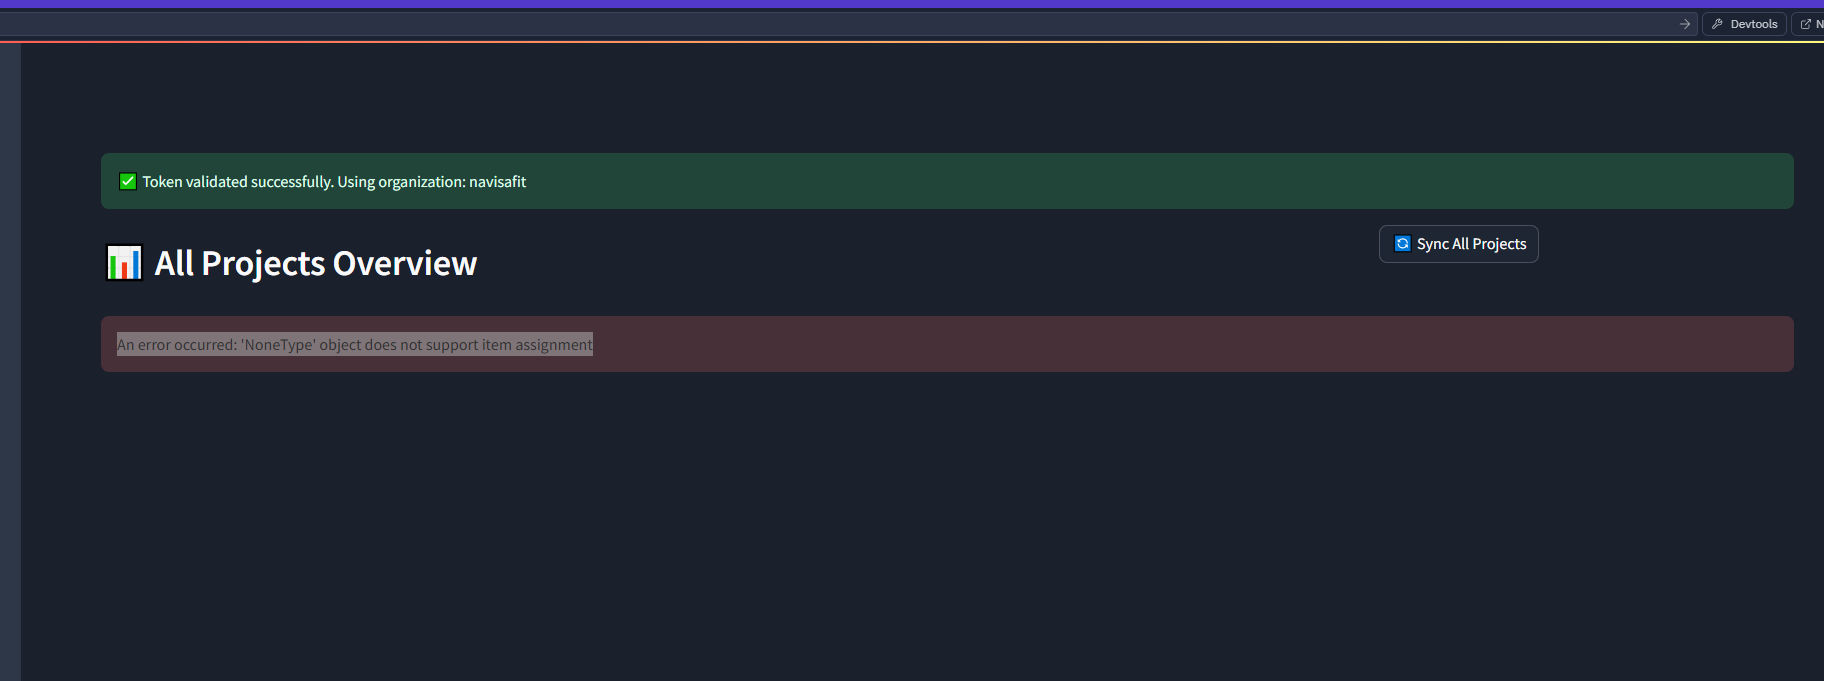
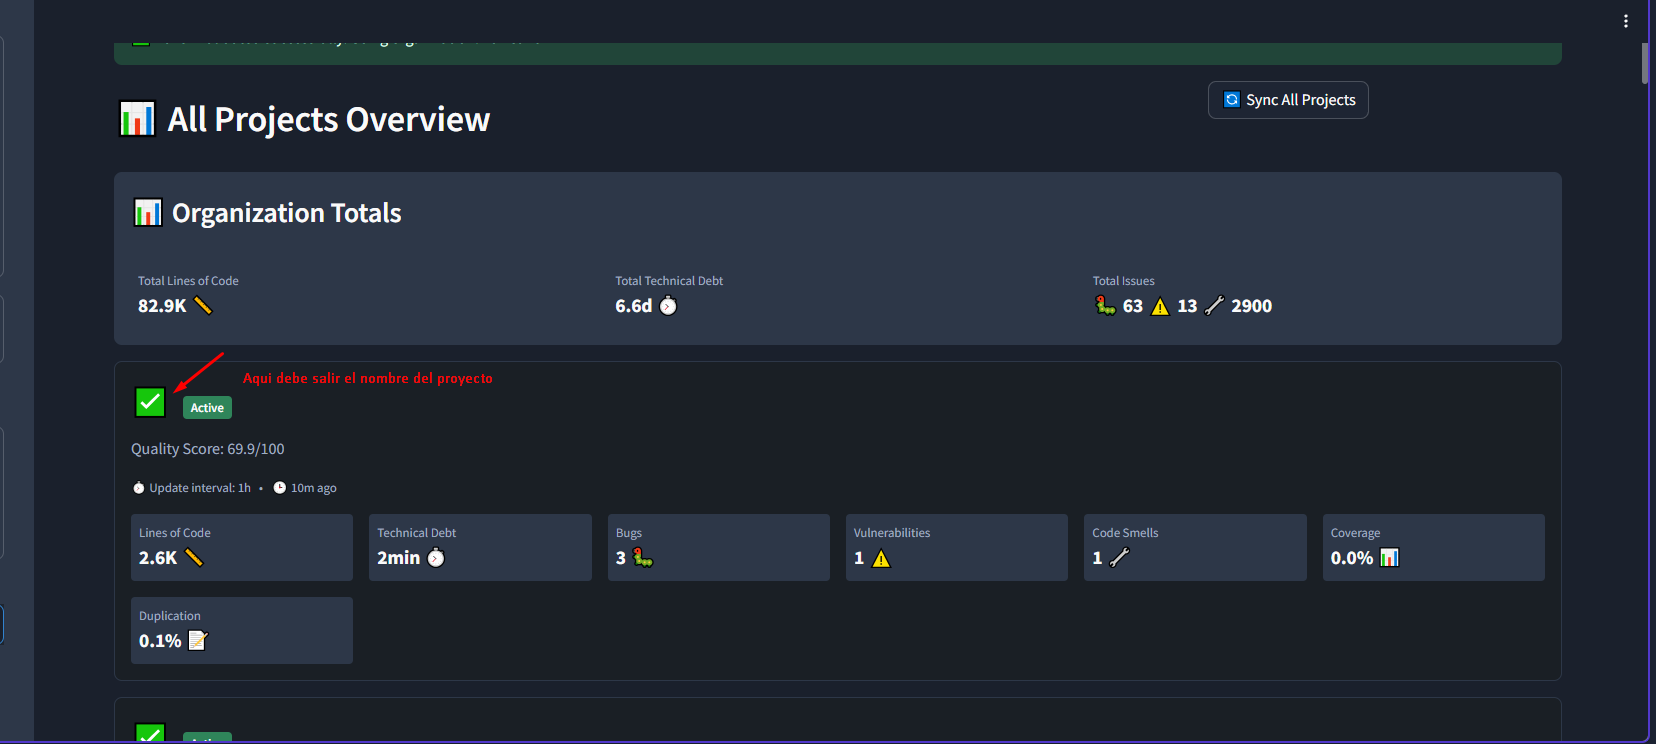
Agent step completed: Fix project names display in All Projects view

diff --git a/components/metrics_display.py b/components/metrics_display.py
@@ -78,6 +78,25 @@ def get_project_update_interval(project_key):
         print(f"Error getting update interval: {str(e)}")
         return 3600
 
+def create_metric_card(title, value, status, help_text):
+    """Create a styled metric card with help tooltip"""
+    st.markdown(f"""
+        <div style="
+            padding: 1rem;
+            border-radius: 0.5rem;
+            background: #1A1F25;
+            border: 1px solid #2D3748;
+            box-shadow: 0 1px 3px rgba(0,0,0,0.24);
+            margin-bottom: 1rem;">
+            <div style="color: #A0AEC0; font-size: 0.8rem;">{title}</div>
+            <div style="font-size: 1.5rem; font-weight: bold; margin: 0.5rem 0; color: #FAFAFA;">
+                {value} {status}
+            </div>
+        </div>
+    """, unsafe_allow_html=True)
+    if help_text:
+        st.markdown(f'<small style="color: #A0AEC0;">{help_text}</small>', unsafe_allow_html=True)
+
 def display_current_metrics(metrics_data):
     """Display current metrics for a single project"""
     st.markdown("""
@@ -181,25 +200,6 @@ def display_current_metrics(metrics_data):
             "📝",
             "Percentage of duplicated lines in the codebase"
         )
-
-def create_metric_card(title, value, status, help_text):
-    """Create a styled metric card with help tooltip"""
-    st.markdown(f"""
-        <div style="
-            padding: 1rem;
-            border-radius: 0.5rem;
-            background: #1A1F25;
-            border: 1px solid #2D3748;
-            box-shadow: 0 1px 3px rgba(0,0,0,0.24);
-            margin-bottom: 1rem;">
-            <div style="color: #A0AEC0; font-size: 0.8rem;">{title}</div>
-            <div style="font-size: 1.5rem; font-weight: bold; margin: 0.5rem 0; color: #FAFAFA;">
-                {value} {status}
-            </div>
-        </div>
-    """, unsafe_allow_html=True)
-    if help_text:
-        st.markdown(f'<small style="color: #A0AEC0;">{help_text}</small>', unsafe_allow_html=True)
 
 def create_download_report(data):
     """Create downloadable CSV report"""
@@ -314,6 +314,7 @@ def display_multi_project_metrics(projects_data):
                 'project_key': project_key,
                 'project_name': project_info['display_name'],
                 'is_active': project_info['is_active'],
+                'is_marked_for_deletion': project_info.get('is_marked_for_deletion', False),
                 'bugs': 0,
                 'vulnerabilities': 0,
                 'code_smells': 0,
@@ -327,6 +328,7 @@ def display_multi_project_metrics(projects_data):
             metrics['project_key'] = project_key
             metrics['project_name'] = project_info['display_name']
             metrics['is_active'] = project_info['is_active']
+            metrics['is_marked_for_deletion'] = project_info.get('is_marked_for_deletion', False)
             
             # Add to totals for projects with metrics
             for metric in total_metrics.keys():
@@ -383,8 +385,9 @@ def display_multi_project_metrics(projects_data):
         
         st.markdown(f"""
             <div class="project-card">
-                <h3 style="color: #FAFAFA;">
-                    {status_icon} {row['project_name']}
+                <h3 style="color: #FAFAFA; display: flex; align-items: center; gap: 0.5rem;">
+                    <span>{status_icon}</span>
+                    <span>{row['project_name']}</span>
                     <span class="project-status {status_class}">{status_text}</span>
                 </h3>
                 <p style="color: #A0AEC0;">Quality Score: {row['quality_score']:.1f}/100</p>
@@ -427,54 +430,189 @@ def display_multi_project_metrics(projects_data):
         """, unsafe_allow_html=True)
 
 def display_metric_trends(historical_data):
-    """Display metric trends over time"""
+    """Display metric trends over time with comprehensive analysis"""
+    st.markdown('<h3 style="color: #FAFAFA;">📈 Trend Analysis</h3>', unsafe_allow_html=True)
+    
     if not historical_data:
         st.warning("No historical data available for trend analysis")
         return
-    
-    st.markdown('<h3 style="color: #FAFAFA;">📈 Trend Analysis</h3>', unsafe_allow_html=True)
-    
-    # Convert historical data to DataFrame
+        
+    # Convert historical data to DataFrame with UTC timestamps
     df = pd.DataFrame(historical_data)
     df['timestamp'] = pd.to_datetime(df['timestamp'])
+    df['timestamp'] = df['timestamp'].dt.tz_convert('UTC')
     df = df.sort_values('timestamp')
     
-    # Calculate trends
-    for metric in ['bugs', 'vulnerabilities', 'code_smells', 'coverage']:
-        if metric in df.columns:
-            current = df[metric].iloc[-1]
-            previous = df[metric].iloc[-2] if len(df) > 1 else current
-            change = ((current - previous) / previous * 100) if previous != 0 else 0
+    metrics = {
+        'bugs': {'name': '🐛 Bugs', 'improvement': 'decrease'},
+        'vulnerabilities': {'name': '⚠ Vulnerabilities', 'improvement': 'decrease'},
+        'code_smells': {'name': '🔧 Code Smells', 'improvement': 'decrease'},
+        'coverage': {'name': '📊 Test Coverage', 'improvement': 'increase'},
+        'duplicated_lines_density': {'name': '📝 Code Duplication', 'improvement': 'decrease'},
+        'ncloc': {'name': '📏 Lines of Code', 'improvement': 'neutral'},
+        'sqale_index': {'name': '⏱ Technical Debt', 'improvement': 'decrease'}
+    }
+    
+    for metric, info in metrics.items():
+        if metric not in df.columns:
+            continue
             
-            direction = "improving" if (metric == 'coverage' and change > 0) or \
-                                    (metric != 'coverage' and change < 0) else \
-                       "deteriorating" if change != 0 else "stable"
+        with st.expander(f"{info['name']} Analysis", expanded=True):
+            col1, col2 = st.columns([2, 1])
             
-            color = "#48BB78" if direction == "improving" else \
-                    "#F56565" if direction == "deteriorating" else \
-                    "#A0AEC0"
+            with col1:
+                # Create plotly figure
+                fig = make_subplots(specs=[[{"secondary_y": True}]])
+                
+                # Add main metric line
+                fig.add_trace(
+                    go.Scatter(
+                        x=df['timestamp'],
+                        y=df[metric],
+                        name=info['name'],
+                        line=dict(color="#4299E1", width=2)
+                    )
+                )
+                
+                # Add moving averages
+                for window in [7, 30]:
+                    ma = df[metric].rolling(window=window).mean()
+                    fig.add_trace(
+                        go.Scatter(
+                            x=df['timestamp'],
+                            y=ma,
+                            name=f'{window}d MA',
+                            line=dict(dash='dash'),
+                            opacity=0.7
+                        )
+                    )
+                
+                # Customize layout
+                fig.update_layout(
+                    template="plotly_dark",
+                    plot_bgcolor="#1A1F25",
+                    paper_bgcolor="#1A1F25",
+                    margin=dict(l=10, r=10, t=30, b=10),
+                    height=400,
+                    showlegend=True,
+                    legend=dict(
+                        bgcolor="rgba(0,0,0,0)",
+                        bordercolor="rgba(0,0,0,0)"
+                    ),
+                    xaxis=dict(
+                        title="Date (UTC)",
+                        gridcolor="#2D3748",
+                        showgrid=True
+                    ),
+                    yaxis=dict(
+                        title=info['name'],
+                        gridcolor="#2D3748",
+                        showgrid=True
+                    )
+                )
+                
+                st.plotly_chart(fig, use_container_width=True)
             
-            emoji = "📈" if change > 0 else "📉" if change < 0 else "➡"
-            
-            st.markdown(f"""
-                <div style="
-                    background: #1A1F25;
-                    border: 1px solid #2D3748;
-                    border-radius: 0.5rem;
-                    padding: 1rem;
-                    margin-bottom: 1rem;
-                ">
-                    <div style="color: #A0AEC0;">{metric.replace('_', ' ').title()}</div>
-                    <div style="
-                        font-size: 1.2rem;
-                        font-weight: bold;
-                        color: {color};
-                        margin: 0.5rem 0;
-                    ">
-                        {direction.title()} {emoji} ({change:+.1f}%)
-                    </div>
-                    <div style="color: #A0AEC0;">
-                        Current: {current:.1f} • Previous: {previous:.1f}
-                    </div>
-                </div>
-            """, unsafe_allow_html=True)
+            with col2:
+                # Calculate trend statistics
+                if len(df) >= 2:
+                    latest_value = df[metric].iloc[-1]
+                    prev_value = df[metric].iloc[-2]
+                    week_ago = df[df['timestamp'] >= df['timestamp'].max() - pd.Timedelta(days=7)][metric].iloc[0] if len(df) > 7 else None
+                    month_ago = df[df['timestamp'] >= df['timestamp'].max() - pd.Timedelta(days=30)][metric].iloc[0] if len(df) > 30 else None
+                    
+                    # Calculate changes
+                    latest_change = ((latest_value - prev_value) / prev_value * 100) if prev_value != 0 else 0
+                    week_change = ((latest_value - week_ago) / week_ago * 100) if week_ago and week_ago != 0 else None
+                    month_change = ((latest_value - month_ago) / month_ago * 100) if month_ago and month_ago != 0 else None
+                    
+                    # Format display values based on metric type
+                    if metric == 'ncloc':
+                        current_value = format_code_lines(latest_value)
+                        prev_value_display = format_code_lines(prev_value)
+                    elif metric == 'sqale_index':
+                        current_value = format_technical_debt(latest_value)
+                        prev_value_display = format_technical_debt(prev_value)
+                    else:
+                        current_value = f"{latest_value:.1f}"
+                        prev_value_display = f"{prev_value:.1f}"
+                    
+                    # Display current value
+                    st.markdown(f"""
+                        <div style='background: #2D3748; padding: 1rem; border-radius: 0.5rem; margin-bottom: 1rem;'>
+                            <div style='color: #A0AEC0;'>Current Value</div>
+                            <div style='font-size: 1.5rem; color: #FAFAFA;'>
+                                {current_value}
+                            </div>
+                            <div style='color: #A0AEC0;'>Previous: {prev_value_display}</div>
+                        </div>
+                    """, unsafe_allow_html=True)
+                    
+                    # Display trend indicators
+                    def get_trend_color(change, improvement_direction):
+                        if improvement_direction == 'neutral':
+                            return "#A0AEC0"
+                        elif improvement_direction == 'decrease':
+                            return "#48BB78" if change < 0 else "#F56565"
+                        else:  # increase
+                            return "#48BB78" if change > 0 else "#F56565"
+                    
+                    def get_trend_icon(change):
+                        return "📈" if change > 0 else "📉" if change < 0 else "➡"
+                    
+                    # Latest change
+                    trend_color = get_trend_color(latest_change, info['improvement'])
+                    trend_icon = get_trend_icon(latest_change)
+                    st.markdown(f"""
+                        <div style='background: #2D3748; padding: 1rem; border-radius: 0.5rem; margin-bottom: 1rem;'>
+                            <div style='color: #A0AEC0;'>Latest Change</div>
+                            <div style='font-size: 1.2rem; color: {trend_color};'>
+                                {trend_icon} {abs(latest_change):.1f}%
+                            </div>
+                        </div>
+                    """, unsafe_allow_html=True)
+                    
+                    # Weekly change
+                    if week_change is not None:
+                        trend_color = get_trend_color(week_change, info['improvement'])
+                        trend_icon = get_trend_icon(week_change)
+                        st.markdown(f"""
+                            <div style='background: #2D3748; padding: 1rem; border-radius: 0.5rem; margin-bottom: 1rem;'>
+                                <div style='color: #A0AEC0;'>7-Day Change</div>
+                                <div style='font-size: 1.2rem; color: {trend_color};'>
+                                    {trend_icon} {abs(week_change):.1f}%
+                                </div>
+                            </div>
+                        """, unsafe_allow_html=True)
+                    
+                    # Monthly change
+                    if month_change is not None:
+                        trend_color = get_trend_color(month_change, info['improvement'])
+                        trend_icon = get_trend_icon(month_change)
+                        st.markdown(f"""
+                            <div style='background: #2D3748; padding: 1rem; border-radius: 0.5rem; margin-bottom: 1rem;'>
+                                <div style='color: #A0AEC0;'>30-Day Change</div>
+                                <div style='font-size: 1.2rem; color: {trend_color};'>
+                                    {trend_icon} {abs(month_change):.1f}%
+                                </div>
+                            </div>
+                        """, unsafe_allow_html=True)
+                    
+                    # Add summary analysis
+                    st.markdown("### Summary")
+                    if info['improvement'] != 'neutral':
+                        status = "improving" if (
+                            (info['improvement'] == 'decrease' and latest_change < 0) or
+                            (info['improvement'] == 'increase' and latest_change > 0)
+                        ) else "deteriorating" if latest_change != 0 else "stable"
+                        
+                        st.markdown(f"""
+                            <div style='background: #2D3748; padding: 1rem; border-radius: 0.5rem;'>
+                                <div style='color: #FAFAFA;'>
+                                    Metric is <span style='color: {"#48BB78" if status == "improving" else "#F56565" if status == "deteriorating" else "#A0AEC0"};'>
+                                        {status}</span> based on recent trends
+                                </div>
+                            </div>
+                        """, unsafe_allow_html=True)
+                else:
+                    st.info("Not enough historical data for trend analysis")

diff --git a/main.py b/main.py
@@ -75,12 +75,14 @@ def get_all_projects_data():
             project_data = dict(row)
             project_key = project_data['repo_key']
             
-            # Determine project status indicator with proper spacing
-            status_indicator = '✅ '
-            if not project_data['is_active']:
-                status_indicator = '🗑 ' if project_data['is_marked_for_deletion'] else '⚠ '
-            
             # Format project name with status and proper spacing
+            if project_data['is_marked_for_deletion']:
+                status_indicator = '🗑\u00A0'  # Using non-breaking space
+            elif not project_data['is_active']:
+                status_indicator = '⚠\u00A0'
+            else:
+                status_indicator = '✅\u00A0'
+            
             formatted_name = f"{status_indicator}{project_data['name']}"
             
             # Always include project data with formatted name
